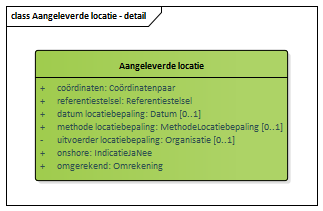
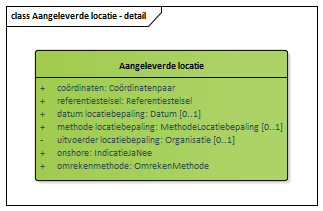
Conceptualmodel-MijnbouwconstructiesEPC-conceptueel-0.1versie27juli2020-1-20200727-20201112-184331

Changed region(s): [[0.2167, 0.7678, 0.6502, 0.8246]]

diff --git a/data/EPC-cat.msword.html b/data/EPC-cat.msword.html
@@ -15,7 +15,7 @@
    <body>
       <p>Conceptual model/Mijnbouwconstructies (EPC) - conceptueel/20200727</p>
       <p>Imvertor: 1.62.0</p>
-      <p>Model release: Conceptualmodel-MijnbouwconstructiesEPC-conceptueel-0.1versie27juli2020-1-20200727-20201105-144322</p>
+      <p>Model release: Conceptualmodel-MijnbouwconstructiesEPC-conceptueel-0.1versie27juli2020-1-20200727-20201112-184331</p>
       <hr>
       <section>
          <h1>Artikel 1 Definitie van registratieobject, entiteiten en attributen</h1>
@@ -433,9 +433,7 @@
                               <th>Reden geen waarde</th>
                               <td>
                                  
-                                 <p>Het KVK-nummer van de eigenaar is niet opgeslagen bij de dataleverancier.<br clear="none">
-                                    [OPEN PUNT: de vraag is of we de eigenaar op deze manier gaan opnemen, of dat het
-                                    juridisch anders kan worden opgelost.] </p>
+                                 <p>Het KVK-nummer van de eigenaar is niet opgeslagen bij de dataleverancier.</p>
                                  </td>
                            </tr>
                            <tr>
@@ -443,13 +441,13 @@
                               <td>
                                  
                                  <p>In het geval de vergunninghouder een consortium is, dan is de penvoerder van het consortium
-                                    de eigenaar van het boorgat.<br clear="none">
-                                    In het geval het boorgat een alleenstaand geabandoneerd boorgat is, dan is de organisatie
-                                    die eigenaar was ten tijde van de abandonneering de (laatste) eigenaar van het boorgat.<br clear="none">
-                                    In het geval het boorgat behoort tot een productieinstallatie dan is de eigenaar aan
-                                    verandering onderhevig totdat de gehele productieinstallatie is geabandonneerd, dan
-                                    is de organisatie die eigenaar was ten tijde van de abandonneering van de productieinstallatie
-                                    de (laatste) eigenaar van het boorgat.<br clear="none">
+                                    de eigenaar van het boorgat.
+                                    In het geval het boorgat een alleenstaand geabandonneerd boorgat is, dan is de organisatie
+                                    die eigenaar was ten tijde van de abandonnering de (laatste) eigenaar van het boorgat.
+                                    In het geval het boorgat behoort tot een productie-installatie dan is de eigenaar
+                                    aan verandering onderhevig totdat de gehele productie-installatie is geabandonneerd,
+                                    dan is de organisatie die eigenaar was ten tijde van de abandonnering van de productie-installatie
+                                    de (laatste) eigenaar van het boorgat.
                                     Een boorgat zonder eigenaar kan alleen bestaan wanneer de laatste eigenaar failliet
                                     is gegaan en niet overgenomen is door een ander bedrijf.</p>
                                  </td>
@@ -1629,8 +1627,8 @@
                            </tr>
                         </tbody>
                      </table>
-                     </section><a class="anchor" id="detail_attribute_Model_Aangeleverdelocatie_omgerekend"></a><section id="detail_attribute_Model_Aangeleverdelocatie_omgerekend">
-                     <h4>  omgerekend</h4>
+                     </section><a class="anchor" id="detail_attribute_Model_Aangeleverdelocatie_omrekenmethode"></a><section id="detail_attribute_Model_Aangeleverdelocatie_omrekenmethode">
+                     <h4>  omrekenmethode</h4>
                      
                      <table style="width: 100%;">
                         <colgroup style="width: 30%;"></colgroup>
@@ -1644,8 +1642,9 @@
                               <th>Definitie</th>
                               <td>
                                  
-                                 <p>De aanduiding die aangeeft of een aangeleverde locatie van een boorgat al in een eerder
-                                    stadium is omgerekend naar een voor de basisregistratie ondergrond gangbaar referentiestelsel.</p>
+                                 <p>De aanduiding die aangeeft of en zo ja op welke wijze een aangeleverde locatie van
+                                    een boorgat al in een eerder stadium is omgerekend naar een voor de basisregistratie
+                                    ondergrond gangbaar referentiestelsel.</p>
                                  </td>
                            </tr>
                            <tr>
@@ -1662,7 +1661,7 @@
                            </tr>
                            <tr>
                               <th>&nbsp;&nbsp;Naam</th>
-                              <td><a class="link" href="#detail_class_Model_Omrekening">Omrekening</a></td>
+                              <td><a class="link" href="#detail_class_Model_OmrekenMethode">OmrekenMethode</a></td>
                            </tr>
                            <tr>
                               <th>&nbsp;&nbsp;Type</th>
@@ -2862,7 +2861,7 @@
                            </tr>
                            <tr>
                               <th>&nbsp;&nbsp;Naam</th>
-                              <td>Tekst </td>
+                              <td>GM_Curve</td>
                            </tr>
                            <tr>
                               <th>Regels</th>
@@ -3107,7 +3106,7 @@
                         </td>
                   </tr>
                   <tr>
-                     <td>kellyBushing</td>
+                     <td>KellyBushing</td>
                      <td>✔</td>
                      <td>✔</td>
                      <td>
@@ -3308,8 +3307,6 @@
                      <td>
                         
                         <p>De lijst met de methoden voor het bepalen van de locatie van de mijnbouwconstructie.</p>
-                        
-                        <p>[OPEN PUNT: Deze waardenlijst dient nog definitief vastgesteld te worden.]</p>
                         </td>
                   </tr>
                </tbody>
@@ -3805,8 +3802,8 @@
                </tbody>
             </table>
             </section>
-         <section id="detail_class_Model_Omrekening">
-            <h3>  Omrekening</h3>
+         <section id="detail_class_Model_OmrekenMethode">
+            <h3>  OmrekenMethode</h3>
             
             <table style="width: 100%;" class="list">
                <colgroup></colgroup>
@@ -3814,7 +3811,9 @@
                   <tr>
                      <td>
                         
-                        <p>[OPEN PUNT: definitie]</p>
+                        <p>De lijst met methodes volgens welke een aangeleverde locatie van een boorgat al in
+                           een eerder stadium is omgerekend naar een voor de basisregistratie ondergrond gangbaar
+                           referentiestelsel.</p>
                         </td>
                   </tr>
                </tbody>
@@ -3833,7 +3832,7 @@
                      <th>Omschrijving</th>
                   </tr>
                   <tr>
-                     <td>JaED50-WGS84</td>
+                     <td>ED50-WGS84</td>
                      <td>✔</td>
                      <td>✔</td>
                      <td>
@@ -3843,7 +3842,7 @@
                         </td>
                   </tr>
                   <tr>
-                     <td>JaED50-RD</td>
+                     <td>ED50-RD</td>
                      <td>✔</td>
                      <td>✔</td>
                      <td>
@@ -3853,7 +3852,7 @@
                         </td>
                   </tr>
                   <tr>
-                     <td>JaRD-WGS84</td>
+                     <td>RD-WGS84</td>
                      <td>✔</td>
                      <td>✔</td>
                      <td>
@@ -3863,7 +3862,7 @@
                         </td>
                   </tr>
                   <tr>
-                     <td>JaWGS84-RD</td>
+                     <td>WGS84-RD</td>
                      <td>✔</td>
                      <td>✔</td>
                      <td>
@@ -3873,16 +3872,16 @@
                         </td>
                   </tr>
                   <tr>
-                     <td>Nee</td>
+                     <td>nietOmgerekend</td>
                      <td>✔</td>
                      <td>✔</td>
                      <td>
                         
-                        <p>De coördinaten van de locatie zijn vòòr aanlevering aan de BRO niet omgerekend. </p>
+                        <p>De coördinaten van de locatie zijn vóór aanlevering aan de BRO niet omgerekend.</p>
                         </td>
                   </tr>
                   <tr>
-                     <td>JaED50-ETRS89</td>
+                     <td>ED50-ETRS89</td>
                      <td>✔</td>
                      <td>✔</td>
                      <td>
@@ -3892,7 +3891,7 @@
                         </td>
                   </tr>
                   <tr>
-                     <td>JaWGS84-ETRS89</td>
+                     <td>WGS84-ETRS89</td>
                      <td>✔</td>
                      <td>✔</td>
                      <td>
@@ -3902,7 +3901,7 @@
                         </td>
                   </tr>
                   <tr>
-                     <td>JaRD-ETRS89</td>
+                     <td>RD-ETRS89</td>
                      <td>✔</td>
                      <td>✔</td>
                      <td>
